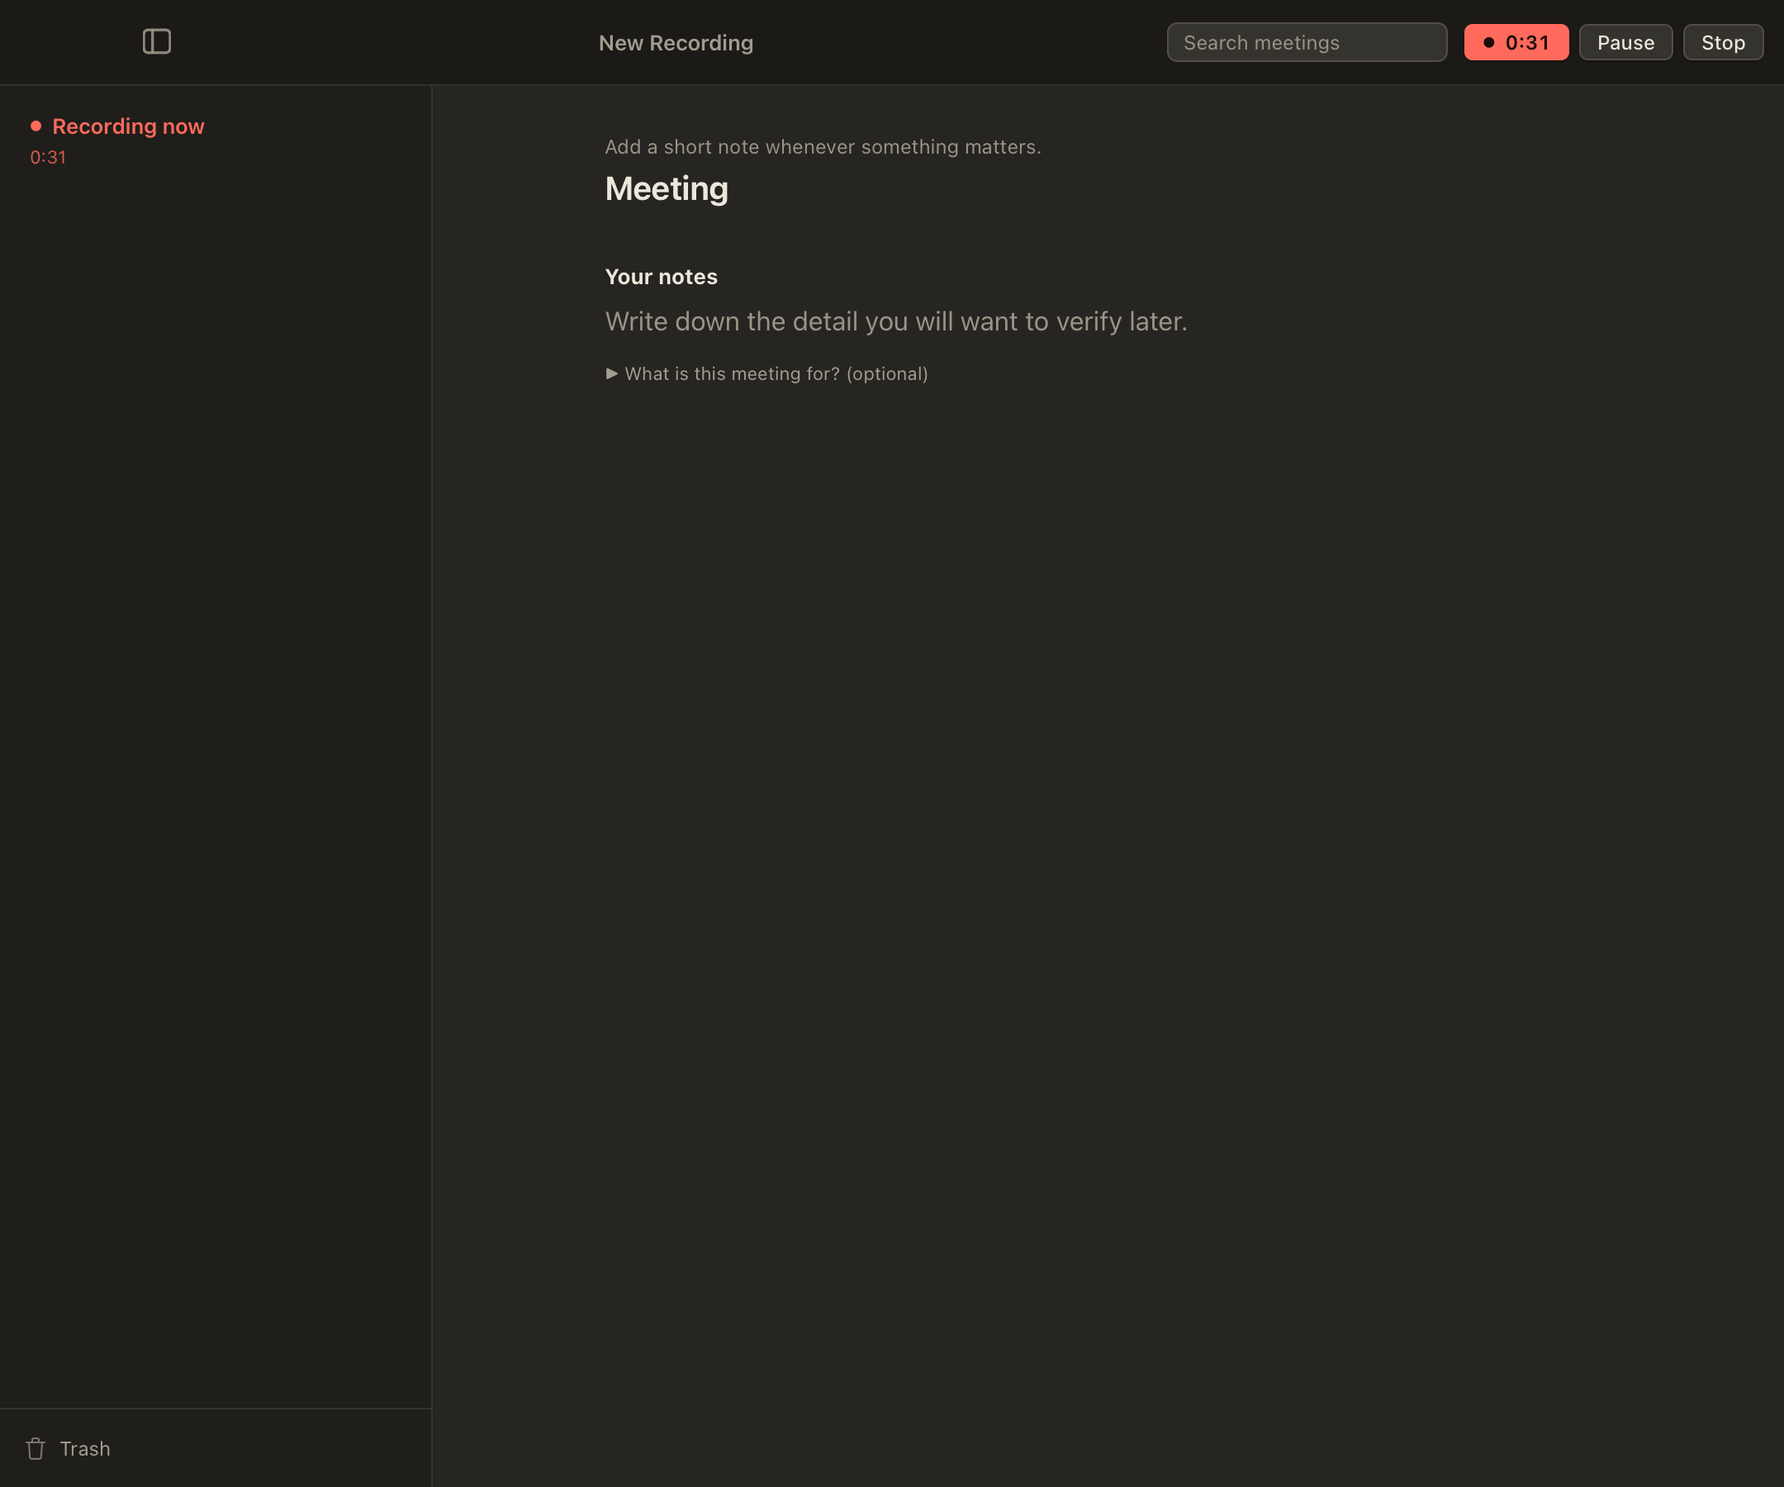
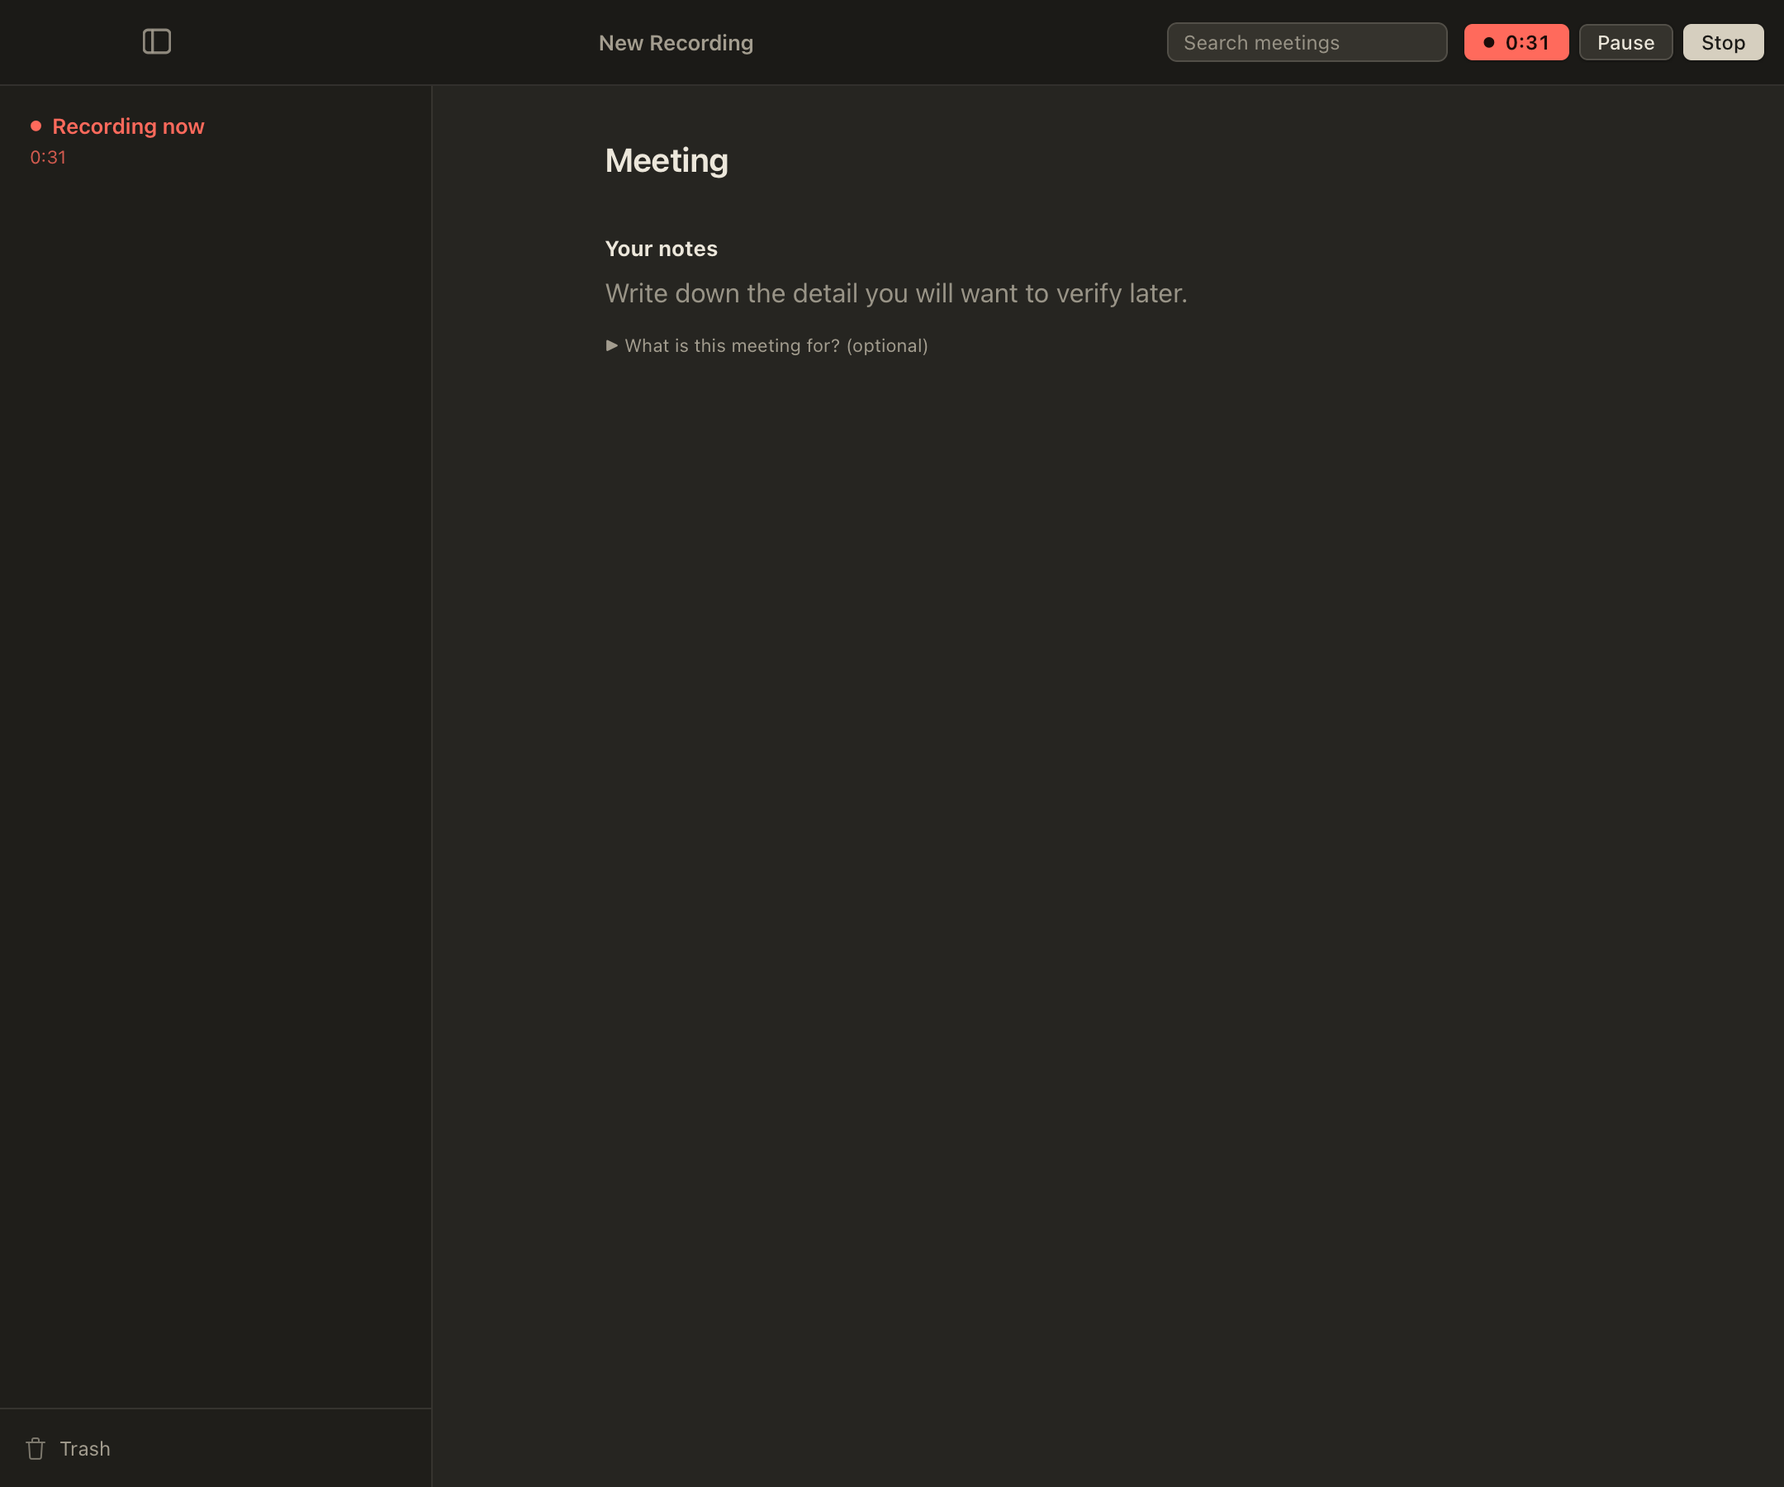
design(mac): what three cold passes changed on the Rail pages
From the cold reviews of the harness captures (passes 1 to 3, record to
follow): the ledger's head row names its columns ("Typed at" over the rail's
times, "Nearest in the transcript" over the turn column), level with "Your
notes" and sharing the ledger's grid; the note keeps a 24px gutter from the
turn column, with the mirror sized like the editor so both wrap at one
width; the first turn carries no fold (turns before the first note are not
between notes, and the fold overprinted the new heading); the transport
has one Full transcript affordance, the disclosure; the meta line drops the
state word for an ordinary meeting; "Saved" sits beside "Your notes"; Stop
is the one primary control while recording; the live page's meta names the
state instead of repeating the editor's placeholder; a neutral note-area
state is one caption, and "no AI draft" is said in the meta line and once
below; the interrupted stop mark is a mark (its sentence is the title
attribute); Settings' state words sit on their row titles; the stub's
fixture rows carry a fixed time of day so light and dark frames match.

Not changed, and recorded in the review: the transport ticks and the
playback-source chips, the rail spanning the ledger, the empty rail on first
run, the two recording indicators, the interrupted state's single action,
the sidebar's first-run copy, the measured secondary-text contrast.

Changed region(s): [[0.3412, 0.0933, 0.6514, 0.2489], [0.9306, 0.0, 0.9926, 0.0622], [0.4963, 0.0933, 0.5583, 0.1244]]

diff --git a/apps/desktop/ui/main.js b/apps/desktop/ui/main.js
@@ -710,7 +710,7 @@ function renderToolbarRecordControl() {
     return `
       <span class="btn${transport.state === "recording" ? " record live record-live-badge" : ""}" aria-label="${escapeHtml(transport.label)}, ${escapeHtml(elapsedLabel)}">${escapeHtml(badgeLabel)}</span>
       ${pauseControl ? `<button class="btn" type="button" data-action="${pauseControl.action}" ${pauseControl.disabled || changing || stopping ? "disabled" : ""}>${escapeHtml(pauseControl.label)}</button>` : ""}
-      <button class="btn" type="button" data-action="stop-recording" title="Stop (⌘.)" ${stopping ? "disabled" : ""}>${stopping ? "Stopping…" : "Stop"}</button>
+      <button class="btn primary" type="button" data-action="stop-recording" title="Stop (⌘.)" ${stopping ? "disabled" : ""}>${stopping ? "Stopping…" : "Stop"}</button>
     `;
   }
   if (transport.state === "processing") {
@@ -1027,7 +1027,10 @@ function renderCapturePane() {
   // DESIGN.md (Rail): while recording or paused the toolbar's badge is the
   // status; the page carries only when it started. The transitional steps
   // (arming, stopping, captured, transcribing) keep their one-line caption.
-  const meta = live && Number.isFinite(startedAt) ? `Started ${timeOfDayLabel(startedAt)}` : presentation.detail;
+  // Live, the meta is when the recording started, or its state word when
+  // the start time is not known; the detail ("Add a short note…") would only
+  // repeat the editor's placeholder. Other states keep their one-line detail.
+  const meta = live ? (Number.isFinite(startedAt) ? `Started ${timeOfDayLabel(startedAt)}` : presentation.label) : presentation.detail;
   const title = Number.isFinite(startedAt) ? `Meeting · ${dateLabel(startedAt)}` : "Meeting";
   return `
     <div class="canvas-wrap doc-page">
@@ -1287,8 +1290,10 @@ function renderMeetingNote(note, claimEvidence, recovery = null) {
       const canTrash = attention && Boolean(note?.meetingDeletionHandle);
       return `
         <section class="meeting-note meeting-note-unavailable${attention ? " attention-state attention-inline" : ""}" aria-labelledby="meeting-note-heading" data-note-recovery="${escapeHtml(recovery.state)}">
-          <p id="meeting-note-heading" class="${attention ? "attention-headline" : "empty-note-state"}">${escapeHtml(recovery.title)}</p>
-          <p class="${attention ? "attention-detail" : "doc-fact"}">${escapeHtml(recovery.detail)}</p>
+          ${attention
+            ? `<p id="meeting-note-heading" class="attention-headline">${escapeHtml(recovery.title)}</p>
+          <p class="attention-detail">${escapeHtml(recovery.detail)}</p>`
+            : `<p id="meeting-note-heading" class="doc-fact meeting-note-fact">${recovery.state === "summary-failed" ? escapeHtml(recovery.detail) : `${escapeHtml(recovery.title)} ${escapeHtml(recovery.detail)}`}</p>`}
           ${canTrash ? `<div class="attention-actions">
             <button class="btn" type="button" data-action="delete-meeting">Move to Trash…</button>
           </div>` : ""}
@@ -1511,6 +1516,11 @@ function renderMeetingPane() {
     state.audioPlayback,
   );
   const evidenceSplit = state.selected?.evidenceSplit || { open: false, ordinal: null, turnIndex: null };
+  // The turn column gets a heading only when it is drawn (a timed note and a
+  // transcript), so the head row's columns match the ledger's.
+  const ledgerHasTurns = !operatorNote?.unreadable
+    && Boolean(transcript?.turns?.length)
+    && noteLedgerPresentation({ text: state.selected?.operatorNoteDraft || "", moments: state.selected?.operatorNoteMoments || [], turns: transcript?.turns || [], pauses: note?.capturePauses }).hasRail;
   const inspectorOpen = Boolean(evidenceSplit.open && transcript?.turns?.length);
   // DESIGN.md (Rail): a needs-attention surface comes before the notes; a
   // saved AI draft or a plain note fact comes after them.
@@ -1532,7 +1542,7 @@ function renderMeetingPane() {
         ${renderTransport(playback, transcript, row)}
         ${attentionFirst ? noteBlock : ""}
         <section class="note-section your-notes-section" id="meeting-your-notes" aria-labelledby="operator-note-heading">
-          <div class="note-editor-head"><h3 id="operator-note-heading">Your notes</h3><span class="doc-fact" id="library-note-save-state">${escapeHtml(selectedNoteCopy)}</span></div>
+          <div class="note-editor-head${ledgerHasTurns ? " ledger-head" : ""}">${ledgerHasTurns ? `<span class="ledger-head-rail">Typed at</span>` : ""}<span class="ledger-head-note"><h3 id="operator-note-heading">Your notes</h3><span class="doc-fact" id="library-note-save-state">${escapeHtml(selectedNoteCopy)}</span></span>${ledgerHasTurns ? `<span class="ledger-head-turns">Nearest in the transcript</span>` : ""}</div>
           ${operatorNote?.unreadable
             ? `<p class="doc-fact">Yawn could not read this meeting’s personal note, so it was left unchanged.</p>`
             : renderNoteLedger({
@@ -1608,7 +1618,9 @@ function renderDocMeta(row, note) {
   if (meta.duration) parts.push(meta.duration);
   const audio = audioRetentionCaption(note);
   if (audio) parts.push(audio);
-  parts.push(meetingStateCaption(note?.state));
+  // The ordinary meeting (a transcript, the operator's notes) states nothing
+  // here: the page shows what it has. Other states keep their word.
+  if (note?.state !== "transcript-only") parts.push(meetingStateCaption(note?.state));
   return `<p class="doc-meta">${escapeHtml(parts.filter(Boolean).join(" · "))}</p>`;
 }
 
@@ -1653,7 +1665,6 @@ function renderTransport(playback, transcript, row) {
       <div class="transport-track" aria-hidden="true">${ticks.map((tick) => `<i class="transport-tick ${tick.you ? "you" : "them"}" style="left:${tick.percent}%"></i>`).join("")}</div>
       ${sources.length > 1 ? `<span class="transport-source" role="group" aria-label="Which recording to play">${sources.map((control) => `<button class="transport-source-btn" type="button" data-action="set-playback-source" data-source="${escapeHtml(control.source)}" aria-pressed="${control.source === chosen?.source ? "true" : "false"}">${escapeHtml(control.source === "microphone" ? "Microphone" : "System audio")}</button>`).join("")}</span>` : ""}
       ${playingLabel ? `<span class="caption transport-status" role="status" aria-live="polite">${escapeHtml(playingLabel)}</span>` : ""}
-      ${turns.length ? `<button class="transport-full" type="button" data-action="open-full-transcript"><span>Full transcript</span><svg width="7" height="10" viewBox="0 0 7 10" fill="none" aria-hidden="true"><path d="M1.5 1.5l3.5 3.5-3.5 3.5" stroke="currentColor" stroke-width="1.4" stroke-linecap="round" stroke-linejoin="round"/></svg></button>` : ""}
     </div>
   `;
 }
@@ -1674,16 +1685,20 @@ function renderNoteLedger({ text, moments, turns, pauses, field, meetingId, edit
   // scrubs and what the transcript's times count in. It equals the stored
   // moment when nothing was paused; a pause before the line moves it earlier.
   const marks = timedRows.map((row) => `<div class="ledger-mark${live && row.line === lastTimed ? " live" : ""}" data-line="${row.line}"><span>${escapeHtml(timeLabel(row.audioSeconds ?? row.seconds))}</span><i></i></div>`).join("");
-  const turnColumn = showTurns ? timedRows.filter((row) => row.turnIndex >= 0 && !row.repeat).map((row) => {
+  // A fold counts the turns folded between two notes (product brief, "Note
+  // moments on the Mac"). Turns before the first note are not between
+  // anything, so the first row carries no fold; the full transcript below
+  // has them.
+  const turnColumn = showTurns ? timedRows.filter((row) => row.turnIndex >= 0 && !row.repeat).map((row, position) => {
     const turn = turns[row.turnIndex];
     const who = transcriptSpeakerLabel(turn);
-    return `${row.foldedBefore > 0 ? `<div class="ledger-fold" data-line="${row.line}">+ ${row.foldedBefore} ${row.foldedBefore === 1 ? "turn" : "turns"}</div>` : ""}
+    return `${row.foldedBefore > 0 && position > 0 ? `<div class="ledger-fold" data-line="${row.line}">+ ${row.foldedBefore} ${row.foldedBefore === 1 ? "turn" : "turns"}</div>` : ""}
       <div class="ledger-turn" data-line="${row.line}" data-turn-index="${escapeHtml(turn?.sourceTurnIndex ?? row.turnIndex)}"><span class="ledger-turn-time">${escapeHtml(timeLabel(turn?.start))}${who ? ` · ${escapeHtml(who)}` : ""}</span>${turn?.withheld ? "This turn was withheld by the voice check." : escapeHtml(turn?.text || "")}</div>`;
   }).join("") : "";
   return `
     <div class="ledger${ledger.hasRail || stop ? " has-rail" : ""}${showTurns ? " has-turns" : ""}">
       <div class="ledger-rail" aria-hidden="true"></div>
-      <div class="ledger-marks" aria-hidden="true">${marks}${ledger.afterStopLine >= 0 ? `<div class="ledger-after" data-line="${ledger.afterStopLine}">After the meeting</div>` : ""}${stop ? `<div class="ledger-mark stop ledger-stop"><span>${escapeHtml(timeLabel(stop.seconds))}</span><i></i><em>${escapeHtml(stop.label)}</em></div>` : ""}</div>
+      <div class="ledger-marks" aria-hidden="true">${marks}${ledger.afterStopLine >= 0 ? `<div class="ledger-after" data-line="${ledger.afterStopLine}">After the meeting</div>` : ""}${stop ? `<div class="ledger-mark stop ledger-stop" title="${escapeHtml(stop.label)}"><span>${escapeHtml(timeLabel(stop.seconds))}</span><i></i></div>` : ""}</div>
       <div class="ledger-note">
         <textarea class="notes-area meeting-notes-editor ledger-editor" data-field="${escapeHtml(field)}" data-meeting-id="${escapeHtml(meetingId)}" aria-label="Your meeting notes" placeholder="${escapeHtml(placeholder)}" ${editable ? "" : "disabled"}>${escapeHtml(text)}</textarea>
         <div class="ledger-mirror" aria-hidden="true" data-text-length="${lines.join("\n").length}">${lines.map((line) => `<div class="ledger-mirror-line">${line ? escapeHtml(line) : "&nbsp;"}</div>`).join("")}</div>

diff --git a/apps/desktop/ui-harness/tauri-stub.js b/apps/desktop/ui-harness/tauri-stub.js
@@ -15,6 +15,14 @@
 // above the columns), and each fork has a reading only a fixture can show.
 (() => {
   const mode = new URLSearchParams(location.search).get("mode") || "capture";
+  // A fixed time of day for the fixture rows, so two captures of one state
+  // minutes apart (light, then dark) show the same meta line.
+  const fixtureEpoch = (daysAgo, hour, minute) => {
+    const at = new Date();
+    at.setDate(at.getDate() - daysAgo);
+    at.setHours(hour, minute, 0, 0);
+    return Math.floor(at.getTime() / 1000);
+  };
   const captureSnapshot = {
     startup: "ready",
     capture: "recording",
@@ -71,7 +79,7 @@
     meetingId: "harness-meeting-1",
     label: "Harness meeting",
     labelSource: "operator",
-    createdAtEpochSeconds: Math.floor(Date.now() / 1000) - 3600,
+    createdAtEpochSeconds: fixtureEpoch(1, 14, 10),
     transcriptAvailable: true,
   };
   // mode=transcribing-meeting / transcribing-meeting-lands: the state right
@@ -282,7 +290,7 @@
               transcriptAvailable: false, transcriptPending: true, recovery: null, durationSeconds: 1079 },
           ]),
           ...(stopLandsSelected ? [{ ...libraryRow, handle: "row-handle-2", meetingId: "harness-meeting-2", label: "Earlier harness meeting",
-            createdAtEpochSeconds: Math.floor(Date.now() / 1000) - (9 * 24 * 60 * 60), transcriptPending: false, recovery: null }] : []),
+            createdAtEpochSeconds: fixtureEpoch(9, 9, 30), transcriptPending: false, recovery: null }] : []),
         ];
         return { rows, total: rows.length, metadataRevision: 1, searchProbeEnabled: false };
       })()
@@ -292,7 +300,7 @@
           { ...libraryRow, createdAtEpochSeconds: Math.floor(Date.now() / 1000) - 60, transcriptAvailable: false,
             transcriptPending: true, recovery: null },
           { ...libraryRow, handle: "row-handle-2", meetingId: "harness-meeting-2", label: "Earlier harness meeting",
-            createdAtEpochSeconds: Math.floor(Date.now() / 1000) - (9 * 24 * 60 * 60), transcriptPending: false, recovery: null },
+            createdAtEpochSeconds: fixtureEpoch(9, 9, 30), transcriptPending: false, recovery: null },
         ], total: 2, metadataRevision: 1, searchProbeEnabled: false }
       : transcribingMode ? {
         rows: [
@@ -301,7 +309,7 @@
           { ...libraryRow, label: "", labelSource: "date", createdAtEpochSeconds: Math.floor(Date.now() / 1000) - 90,
             transcriptAvailable: transcriptLanded, transcriptPending: legacyContract ? undefined : !transcriptLanded, recovery: null, durationSeconds: 1832 },
           { ...libraryRow, handle: "row-handle-2", meetingId: "harness-meeting-2", label: "Earlier harness meeting",
-            createdAtEpochSeconds: Math.floor(Date.now() / 1000) - (9 * 24 * 60 * 60), transcriptPending: false, recovery: null },
+            createdAtEpochSeconds: fixtureEpoch(9, 9, 30), transcriptPending: false, recovery: null },
         ], total: 2, metadataRevision: 1, searchProbeEnabled: false }
       : mode === "library" || mode === "ledger" || mode === "interrupted" || mode === "fidelity" || mode === "mic-change-failed" || mode === "mic-change-resume-failed" || mode === "transcript-retirement" || mode === "summary-failed" || mode === "saved-draft" || mode === "saved-draft-unreadable" || sheetMode || searchMode
       ? { rows: [{ ...libraryRow, ...(mode === "ledger" ? { durationSeconds: 1458 } : mode === "interrupted" ? { durationSeconds: 401, recovery: "recovered-interrupted", transcriptAvailable: false } : {}) }, {
@@ -309,7 +317,7 @@
           handle: "row-handle-2",
           meetingId: "harness-meeting-2",
           label: "Earlier harness meeting",
-          createdAtEpochSeconds: Math.floor(Date.now() / 1000) - (9 * 24 * 60 * 60),
+          createdAtEpochSeconds: fixtureEpoch(9, 9, 30),
         }], total: 2, metadataRevision: 1, searchProbeEnabled: searchMode }
       : { rows: [], total: 0, metadataRevision: 1 }),
     preview_list_trash: () => ({ entries: [] }),

diff --git a/apps/desktop/ui/styles.css b/apps/desktop/ui/styles.css
@@ -453,8 +453,8 @@ h3 {
 .note-editor-head {
   display: flex;
   align-items: baseline;
-  justify-content: space-between;
-  gap: var(--space-16);
+  justify-content: flex-start;
+  gap: var(--space-12);
   max-width: var(--measure);
   margin: 0 0 var(--space-8);
   padding: 0;
@@ -2866,6 +2866,7 @@ html, body, #app {
   font-size: var(--t-large);
   font-weight: 650;
   line-height: 1.25;
+  letter-spacing: 0;
 }
 
 .empty-doc p {
@@ -3574,3 +3575,55 @@ html, body, #app {
 
 /* Keep optional model choices separate from the first-run selection. */
 .model-setup-secondary { margin-top: 12px; }
+
+/* The ledger's head row shares the ledger's note and turn columns, so the
+   turn column's heading sits level with "Your notes" (cold review
+   2026-10-16: the column of quotes was unexplained). */
+.note-editor-head.ledger-head {
+  display: grid;
+  grid-template-columns: 76px minmax(0, 1fr) 324px;
+  align-items: baseline;
+  max-width: none;
+  /* The page gutter is the head's own first column here, so the head starts
+     where the ledger starts and the three cells land on its three columns. */
+  margin-left: 0;
+}
+.ledger-head-rail {
+  padding-right: 24px;
+  text-align: right;
+  font-size: 11px;
+  line-height: var(--lh-body);
+  font-weight: 600;
+  color: var(--label-3);
+}
+/* With a turn column beside it the note keeps a gutter of its own, so a long
+   line stops short of the turns instead of touching them. The mirror is
+   absolutely positioned against the column's padding box, so it takes the
+   same inset explicitly: the editor and the mirror must wrap at one width. */
+.ledger.has-turns .ledger-note {
+  padding-right: 24px;
+}
+.ledger.has-turns .ledger-mirror {
+  width: auto;
+  right: 24px;
+}
+.ledger-head-note {
+  display: flex;
+  align-items: baseline;
+  gap: var(--space-12);
+  min-width: 0;
+}
+.ledger-head-turns {
+  padding-left: 24px;
+  font-size: 11px;
+  line-height: var(--lh-body);
+  font-weight: 600;
+  color: var(--label-3);
+}
+/* A neutral note-area state is one caption with room above it, apart from
+   the editor's placeholder (cold review 2026-10-16: the two read as one
+   block). */
+.meeting-note-unavailable .meeting-note-fact {
+  margin: var(--space-18) 0 0;
+  max-width: var(--measure);
+}

diff --git a/apps/desktop/ui/settings-window.css b/apps/desktop/ui/settings-window.css
@@ -70,7 +70,9 @@ h2 {
 .privacy-row,
 .update-automatic {
   display: flex;
-  align-items: center;
+  /* The state word sits on the row title's line, not centred against the
+     title-and-description stack (cold review 2026-10-16). */
+  align-items: flex-start;
   justify-content: space-between;
   gap: var(--space-16);
   padding: 7px 0;
